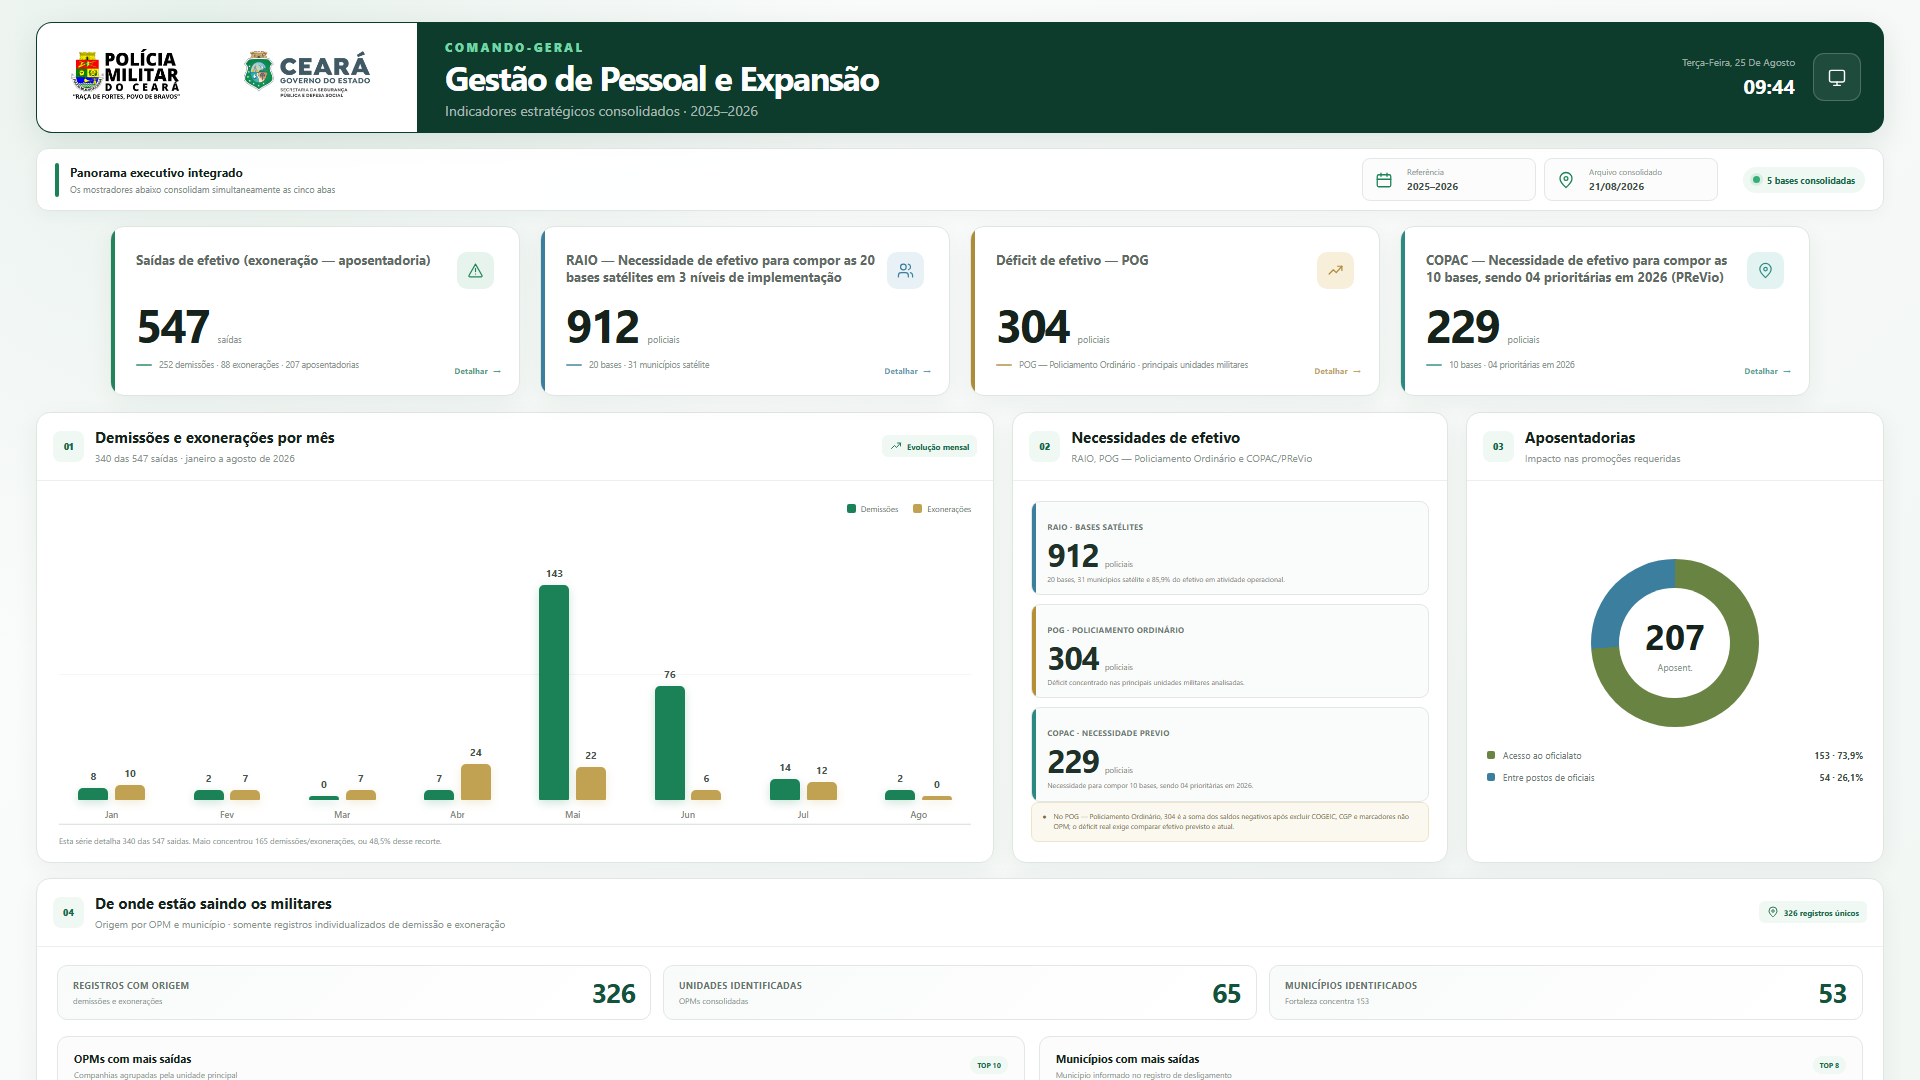
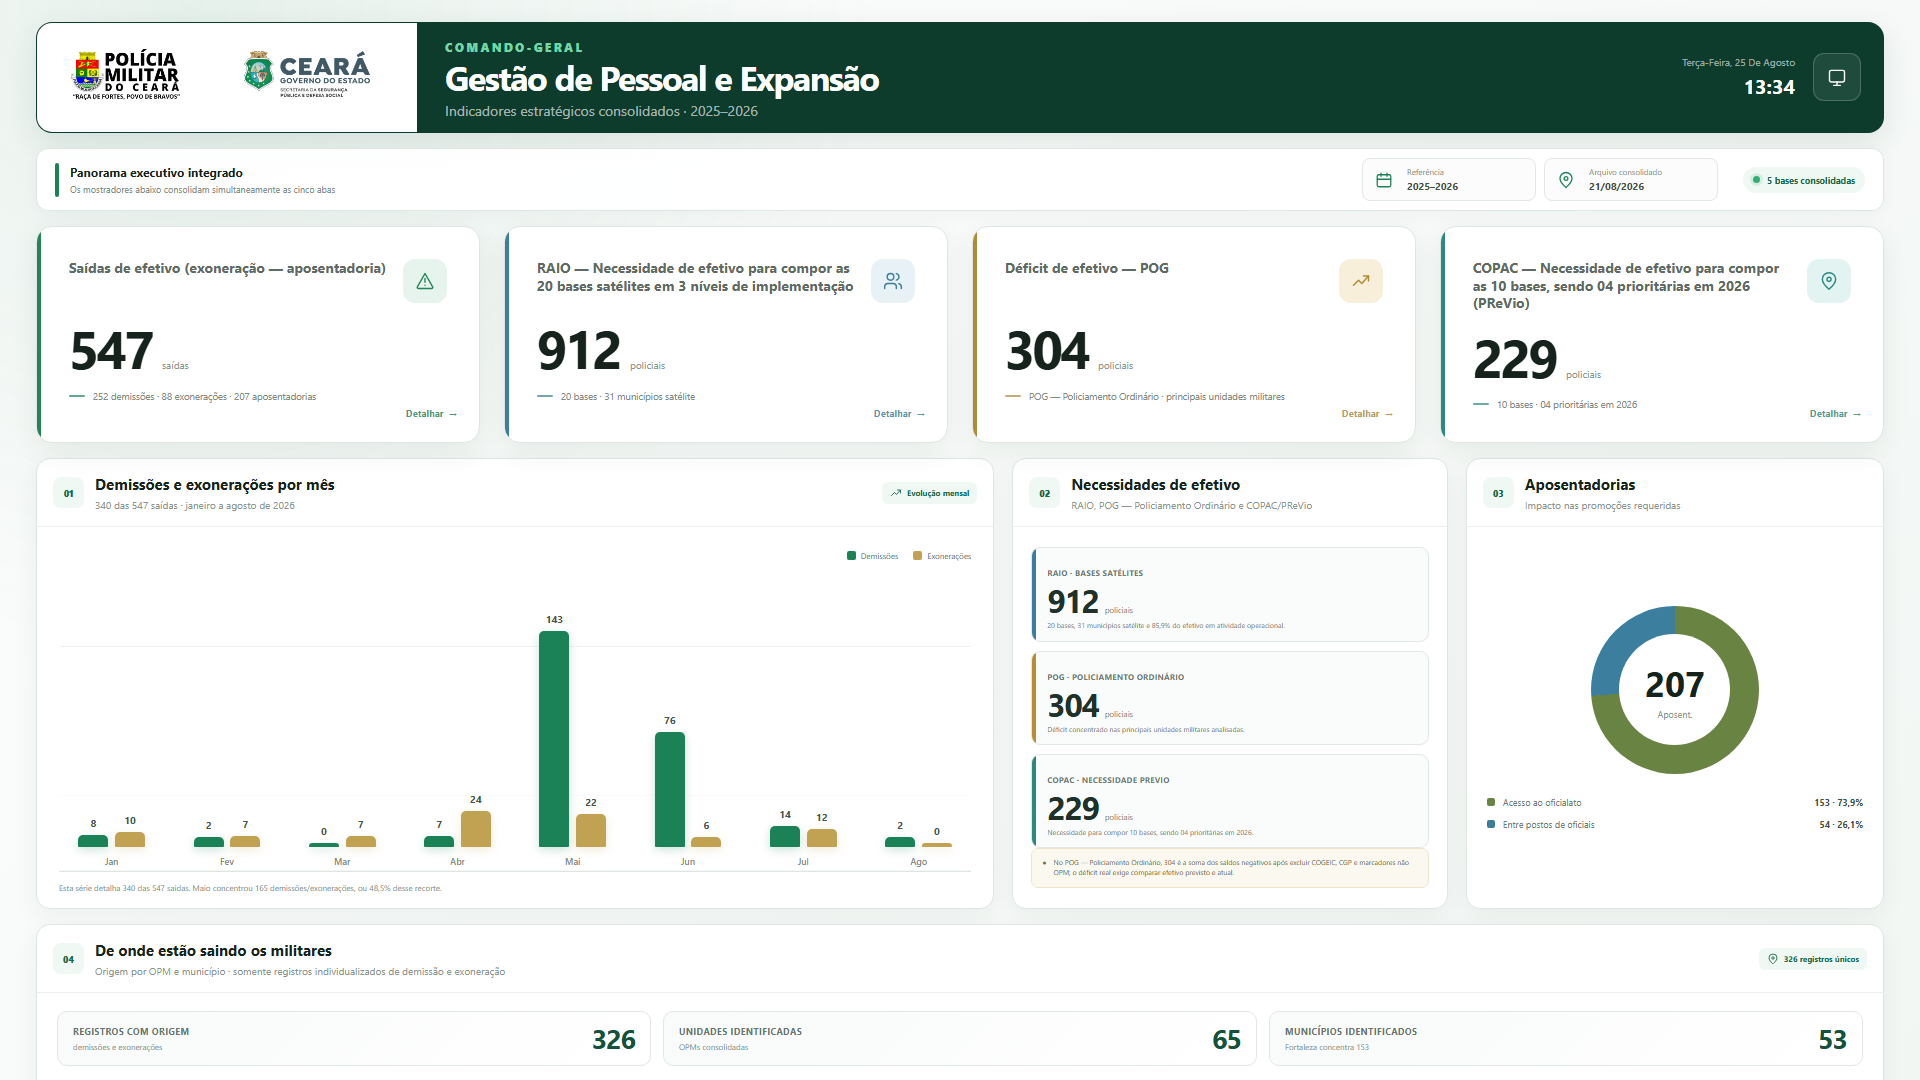
Amplia os cards para toda a largura do painel

diff --git a/presentation.css b/presentation.css
@@ -96,8 +96,8 @@ svg { display: block; }
 .online-status { display: flex; align-items: center; gap: 7px; padding: 7px 10px; border-radius: 20px; color: var(--green-700); background: var(--green-50); font-size: 9px; font-weight: 650; }
 .online-status i { width: 7px; height: 7px; border-radius: 50%; background: #34ae76; box-shadow: 0 0 0 3px rgba(52,174,118,.12); }
 
-.metrics { display: grid; width: min(100%, 1700px); grid-template-columns: repeat(4, minmax(0, 1fr)); justify-self: center; gap: clamp(12px, 1.15vw, 20px); }
-.metric-card { position: relative; min-width: 0; min-height: 168px; overflow: hidden; padding: clamp(17px, 1.4vw, 25px); border: 1px solid var(--line); border-radius: 14px; color: var(--ink); text-align: left; background: #fff; box-shadow: 0 7px 24px rgba(10, 50, 35, .055); }
+.metrics { display: grid; width: 100%; grid-template-columns: repeat(4, minmax(0, 1fr)); gap: clamp(14px, 1.25vw, 24px); }
+.metric-card { position: relative; min-width: 0; min-height: 195px; overflow: hidden; padding: clamp(22px, 1.65vw, 32px); border: 1px solid var(--line); border-radius: 16px; color: var(--ink); text-align: left; background: #fff; box-shadow: 0 9px 28px rgba(10, 50, 35, .07); }
 .metric-card::before { position: absolute; inset: 0 auto 0 0; width: 4px; background: var(--accent); content: ""; }
 .metric-card::after { position: absolute; right: 0; bottom: 0; left: 0; height: 3px; background: var(--accent); content: ""; opacity: 0; transform: scaleX(.35); transition: opacity .2s, transform .2s; }
 .metric-card--green { --accent: #23845b; --soft: #e6f4ed; }
@@ -109,17 +109,17 @@ svg { display: block; }
 .metric-card--interactive:hover { border-color: color-mix(in srgb, var(--accent), #fff 58%); box-shadow: 0 13px 30px rgba(10, 50, 35, .11); transform: translateY(-3px); }
 .metric-card--interactive:hover::after, .metric-card--interactive:focus-visible::after { opacity: 1; transform: scaleX(1); }
 .metric-card--interactive:focus-visible { outline: 3px solid color-mix(in srgb, var(--accent), transparent 68%); outline-offset: 3px; }
-.metric-top { display: flex; align-items: flex-start; justify-content: space-between; gap: 12px; color: #5e6a64; font-size: clamp(10px, .72vw, 13px); font-weight: 650; }
+.metric-top { display: flex; align-items: flex-start; justify-content: space-between; gap: 15px; color: #5e6a64; font-size: clamp(11px, .78vw, 14px); font-weight: 650; }
 .metric-top > span { line-height: 1.25; }
-.metric-icon { display: grid; width: 37px; height: 37px; flex: 0 0 auto; place-items: center; border-radius: 10px; color: var(--accent); background: var(--soft); }
-.metric-icon svg { width: 17px; height: 17px; fill: none; stroke: currentColor; stroke-linecap: round; stroke-linejoin: round; stroke-width: 1.7; }
-.metric-main { display: flex; align-items: baseline; gap: 9px; margin-top: 12px; }
-.metric-main strong { font-size: clamp(31px, 2.4vw, 47px); letter-spacing: -.05em; line-height: 1; }
-.metric-main small { color: #8a958f; font-size: 9px; }
-.metric-foot { display: flex; align-items: center; gap: 7px; margin-top: 12px; color: #8e9893; font-size: 8.5px; }
+.metric-icon { display: grid; width: 44px; height: 44px; flex: 0 0 auto; place-items: center; border-radius: 12px; color: var(--accent); background: var(--soft); }
+.metric-icon svg { width: 20px; height: 20px; fill: none; stroke: currentColor; stroke-linecap: round; stroke-linejoin: round; stroke-width: 1.7; }
+.metric-main { display: flex; align-items: baseline; gap: 10px; margin-top: 18px; }
+.metric-main strong { font-size: clamp(38px, 2.75vw, 54px); letter-spacing: -.05em; line-height: 1; }
+.metric-main small { color: #8a958f; font-size: 10px; }
+.metric-foot { display: flex; align-items: center; gap: 8px; margin-top: 16px; color: #7f8b85; font-size: 9.5px; }
 .metric-foot i { width: 16px; height: 2px; border-radius: 2px; background: var(--accent); opacity: .7; }
 .metric-card--interactive .metric-foot { padding-right: 66px; }
-.metric-detail-hint { position: absolute; right: 18px; bottom: 18px; color: var(--accent); font-size: 8px; font-weight: 750; letter-spacing: .02em; opacity: .78; }
+.metric-detail-hint { position: absolute; right: 22px; bottom: 22px; color: var(--accent); font-size: 9px; font-weight: 750; letter-spacing: .02em; opacity: .82; }
 .metric-detail-hint b { margin-left: 2px; font-size: 10px; }
 
 .visual-grid { display: grid; min-height: 0; grid-template-columns: minmax(0, 1.65fr) minmax(260px, .75fr) minmax(260px, .72fr); gap: clamp(10px, 1.1vw, 18px); }
@@ -307,7 +307,7 @@ body.modal-open { overflow: hidden; }
 .toast { position: fixed; z-index: 20; right: 28px; bottom: 28px; padding: 12px 16px; border: 1px solid #cde4d8; border-radius: 9px; color: var(--green-800); background: #f8fcfa; box-shadow: 0 12px 30px rgba(9,50,34,.15); font-size: 11px; opacity: 0; transform: translateY(10px); transition: .2s; pointer-events: none; }.toast.is-visible { opacity: 1; transform: translateY(0); }
 
 @media (min-width: 1300px) and (min-height: 760px) {
-  .metric-card { min-height: 168px; }
+  .metric-card { min-height: 195px; }
 }
 
 @media (max-width: 1050px) {
@@ -359,7 +359,7 @@ body.modal-open { overflow: hidden; }
 
 @media (max-width: 470px) {
   .metrics, .context-filters { grid-template-columns: 1fr; }
-  .metric-card { min-height: 125px; }
+  .metric-card { min-height: 155px; }
   .panel-header { align-items: flex-start; }
   .panel-chip { display: none; }
   .horizontal-bar-row { grid-template-columns: 20px 76px minmax(55px, 1fr) 60px; gap: 6px; }
